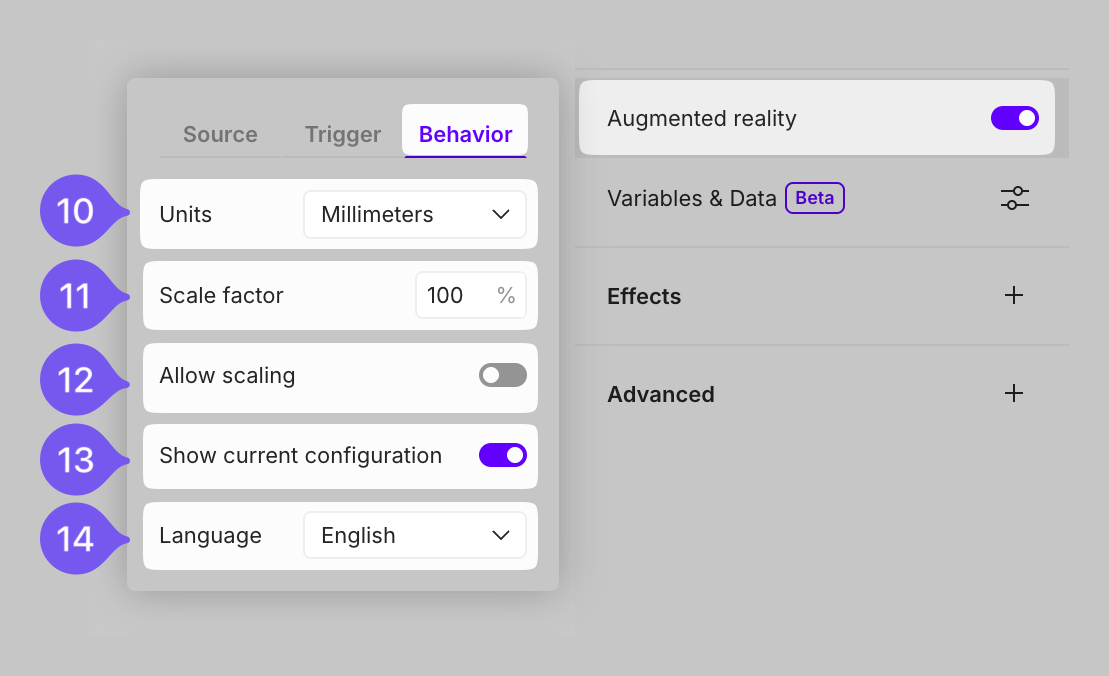
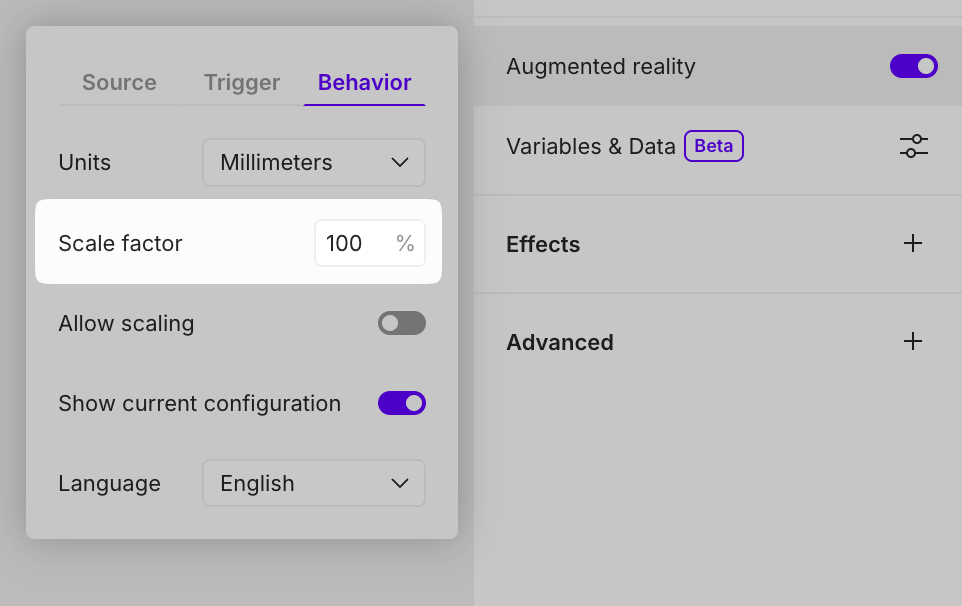
GITBOOK-431: No subject

diff --git a/changelog/february-2026.md b/changelog/february-2026.md
@@ -2,6 +2,61 @@
 
 
 
+### February 20
+
+
+
+
+
+{% tabs %}
+{% tab title="Improvements" %}
+{% hint style="success" %}
+### February 20
+
+
+
+* Added new **Projection** type for applying [**Decals**](../documentation/design-process/decals.md) to objects
+* Added support for importing `WebP` format
+* Improved [**Boolean**](../documentation/design-process/design-mode/modifiers/boolean.md) modifier: now supports animations and dynamic changes in the viewer
+{% endhint %}
+{% endtab %}
+
+{% tab title="Bug fixes" %}
+{% hint style="success" %}
+### February 20
+
+
+
+* Fixed issue where [background](../documentation/design-process/background.md) color was not updating instantly when changed via [variable](../documentation/3d-configurator/variables-and-expressions/)
+* Fixed issue where [interaction prompt](../documentation/project-settings/interaction-prompt.md) was visible when switching to [WebXR](../documentation/project-settings/webxr-beta.md) experience
+* Fixed bug where [Material](../documentation/3d-configurator/floating-ui/materials-ui.md) element (Floating UI) became unresponsive to clicks in some cases
+* Fixed issue where mask remained in [Opacity](../documentation/design-process/materials-and-textures/basic-materials/opacity.md) property after deleting texture in `Mask` mode
+* Fixed issue where texture resolution changes were not applied after project reload in some situations
+* Fixed issue causing texture size to increase when importing texture into [Normal map](../documentation/design-process/materials-and-textures/basic-materials/normal-map.md) property
+{% endhint %}
+{% endtab %}
+
+{% tab title="Details" %}
+{% hint style="info" %}
+#### Improved Boolean
+
+
+
+* Previously, [**Boolean**](../documentation/design-process/design-mode/modifiers/boolean.md) modifiers were baked on export, which meant any dynamic changes (animations, show/hide, transforms) simply wouldn't work with Boolean geometry in the viewer. Now Booleans stay live, so you can animate them, toggle visibility, and apply transformations just like any other object. No more baking, no more limitations!
+{% endhint %}
+
+{% hint style="info" %}
+#### Projected Decals
+
+
+
+* We added a new **Projection** mode for [**Decals**](../documentation/design-process/decals.md) - an alternative to the default wrapping method that projects the texture straight onto the surface. Try both and see which works better for your specific geometry.
+{% endhint %}
+{% endtab %}
+{% endtabs %}
+
+
+
 
 
 ### February 3

diff --git a/documentation/design-process/design-mode/modifiers/boolean.md b/documentation/design-process/design-mode/modifiers/boolean.md
@@ -8,13 +8,13 @@
 
 Boolean modifier performs operations between multiple objects to create complex shapes. The bottom object in the list acts as the main object, while all other objects above it participate in the operation with the main object.
 
-<figure><img src="../../../../.gitbook/assets/image (382).png" alt="" width="563"><figcaption></figcaption></figure>
+<div align="left"><figure><img src="../../../../.gitbook/assets/image (382).png" alt="" width="563"><figcaption></figcaption></figure></div>
 
 
 
 Each participating object has an icon next to it that determines which of the three operations will be performed: **union**, **subtract**, or **intersect**. This means that the main object can have different types of operations with different objects simultaneously.
 
-<figure><img src="../../../../.gitbook/assets/image (383).png" alt="" width="366"><figcaption><p>to change the operation type, click on the icon</p></figcaption></figure>
+<div align="left"><figure><img src="../../../../.gitbook/assets/image (383).png" alt="" width="366"><figcaption><p>to change the operation type, click on the icon</p></figcaption></figure></div>
 
 
 
@@ -35,25 +35,6 @@ Enabling this option ensures that each object involved in the Boolean operation 
 {% hint style="info" %}
 When this option is enabled, converting to geometry preserves the number of objects involved in the operation. If disabled, the conversion results in a single object.
 {% endhint %}
-
-
-
-
-
-### Boolean Animation Limitations
-
-
-
-{% hint style="warning" %}
-#### Limitation
-
-
-
-* Animation and transformation of **objects** under a Boolean modifier are visible only in the Shared version of the project. In the Preview version, this does not work.<br>
-* Animation of **Boolean operations** is not supported. It works in the Preview version but is not functional in the Shared version.
-{% endhint %}
-
-
 
 
 

diff --git a/documentation/design-process/decals.md b/documentation/design-process/decals.md
@@ -49,9 +49,13 @@ Once placed, decals can be resized or rotated using the Gizmo
 
 
 * A decal is a regular 3D object with the same properties, including full control over materials, textures, and other 3D object settings.
-* **Offset** — available after a decal is attached to an object; shifts the decal away from the surface to prevent flickering caused by overlapping geometry.\
+* **Offset** - available after a decal is attached to an object; shifts the decal away from the surface to prevent flickering caused by overlapping geometry.\
   \
-  ![](<../../.gitbook/assets/image (521).png>)
+  ![](<../../.gitbook/assets/image (1).png>)
+
+
+
+* **Use projection decals -** projects the decal texture straight onto the surface rather than wrapping it around the geometry. Produces cleaner results on flat areas but may clip on complex shapes.<br>
 
 
 
@@ -65,7 +69,7 @@ Selecting the same texture in the [Emission](materials-and-textures/basic-materi
 
 
 
-* Decals can also be imported directly from Figma — [figma-frames-import.md](../importing/figma-frames-import.md "mention")
+* Decals can also be imported directly from Figma - [figma-frames-import.md](../importing/figma-frames-import.md "mention")
 * Any changes made in Figma can be updated in Vectary Studio with just one click
 
 

diff --git a/documentation/project-settings/augmented-reality-webar.md b/documentation/project-settings/augmented-reality-webar.md
@@ -83,7 +83,7 @@ Entry into AR experience can be triggered by any 3D object or UI element using t
 {% endtab %}
 
 {% tab title="Behavior" %}
-<div align="left"><figure><img src="../../.gitbook/assets/image (2).png" alt="" width="563"><figcaption></figcaption></figure></div>
+<div align="left"><figure><img src="../../.gitbook/assets/image (2) (1).png" alt="" width="563"><figcaption></figcaption></figure></div>
 
 **`10`** - **Units** - define [units](../getting-started/units.md) of measurement for generated AR files
 

diff --git a/changelog/january-2026.md b/changelog/january-2026.md
@@ -52,7 +52,7 @@
 * We’ve added a **Scale factor** parameter that makes it easier to adjust an object’s scale for AR and during export.\
   Instead of resizing the entire project to match the desired real-world size in augmented reality, you can now simply specify how much larger or smaller the object should be as a percentage.\
   \
-  ![](../.gitbook/assets/image.png)
+  ![](<../.gitbook/assets/image (2).png>)
 {% endhint %}
 {% endtab %}
 {% endtabs %}

diff --git a/documentation/design-process/materials-and-textures/basic-materials/color.md b/documentation/design-process/materials-and-textures/basic-materials/color.md
@@ -7,7 +7,7 @@ Determines the base color of a material. It can be set using a solid color, grad
 * Solid — HEX&#x20;
 * Linear gradient — HEX, RGB
 * Radial gradient — HEX, RGB
-* Texture — JPG, PNG, SVG
+* Texture — JPG, PNG, SVG, WebP
 * Animation — Lottie, GIF, MP4
 * Figma frame — [figma-frames-import.md](../../../importing/figma-frames-import.md "mention")
 

diff --git a/documentation/3d-configurator/hotspots.md b/documentation/3d-configurator/hotspots.md
@@ -14,8 +14,8 @@ Hotspots are always camera-facing, maintaining clear visibility from any viewing
 
 Supported content types:<br>
 
-* Static images (JPG, PNG, SVG)
-* Animated assets (GIF, MP4, Lottie)
+* Static images - `JPG`, `PNG`, `SVG`, `WebP`
+* Animated assets - `GIF`, `MP4`, `Lottie`
 * [figma-frames-import.md](../importing/figma-frames-import.md "mention")
 
 

diff --git a/documentation/design-process/materials-and-textures/basic-materials/opacity.md b/documentation/design-process/materials-and-textures/basic-materials/opacity.md
@@ -17,7 +17,7 @@ The **Invert** option reverses the texture colors, turning white into black and 
 
 * Linear gradient — HEX, RGB
 * Radial gradient — HEX, RGB
-* Texture — JPG, PNG, SVG
+* Texture — JPG, PNG, SVG, WebP
 * Animation — Lottie, GIF, MP4
 * Figma frame — [figma-frames-import.md](../../../importing/figma-frames-import.md "mention")
 

diff --git a/documentation/3d-configurator/floating-ui/image.md b/documentation/3d-configurator/floating-ui/image.md
@@ -11,7 +11,7 @@ The **Image** UI element supports displaying static images, animated images, and
 
 
 * **Animated:** Lottie, GIF, MP4
-* **Static:** PNG, JPG, SVG
+* **Static:** PNG, JPG, SVG, WebP
 * **Figma frames:** [figma-frames-import.md](../../importing/figma-frames-import.md "mention")
 
 
